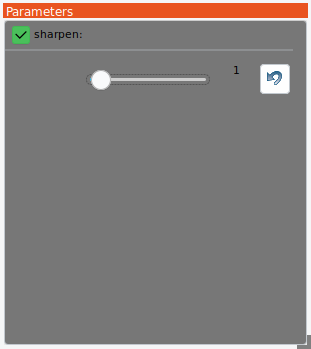
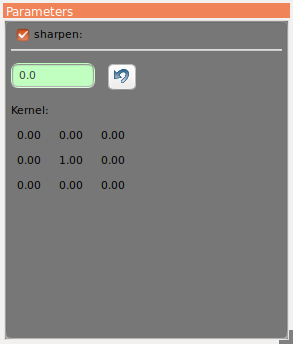
changed sharpen to use a floatctrl, and to apply in 0.1 increments. Also added display of the kernel used to perform the convolution.

diff --git a/doc/sharpen.html b/doc/sharpen.html
@@ -3,12 +3,19 @@
 <h3 id="Sharpen">Sharpen</h3>
 <p>Sharpens the image edges.  This tool is really a digital unsharp mask, which actually increases the contrast 
 of the edges, more appropriately known as acutance.  The algorithm used is a simple 3x3 convolution kernel, 
-adjustable in strength from 1 to 10.  The 0 value is no-sharpen, so you can easily compare it and the lowest 
-sharpening value by just rocking the mouse thumbwheel.</p>
+adjustable in strength from 1 to 10 in 0.1 increments.  The 0 value is no-sharpen.</p>
 <p align=center><img src=sharpen.png></p>
+<p>The kernel used to apply the sharpening is displayed.  Of note:
+<ul>
+	<li>The algorithm that performs the convolution takes the pixels in the 3x3 area surrounding the pixel to be
+	modified, multiplies each by the corresponding kernel value (including the center pixel), and replaces the 
+	pixel value with the sum of those multplications.</li>
+	<li>The matrix that produces no-change, or the 'identity matrix', has 1.0 as its center value and 0.0 for the
+	surrounding values.</li>
+</ul>	
 <p>I've found the most effective use of this tool is to sharpen reduced-sized images to restore the 
-acutance lost in pixel interpolation; using the 
-minimum sharpen setting is usually good enough for this purpose.</p>
+acutance lost in pixel interpolation; before version 1.0 I've been using 1 for this purpose, but now
+I'm going to use the 0.1 increments to see if there's value in lower strengths.</p>
 
 <p><b>Properties:</b> See tool.sharpen.* in <a href=confparams.html#tool.sharpen>Configuration Properties</a></p>
 
